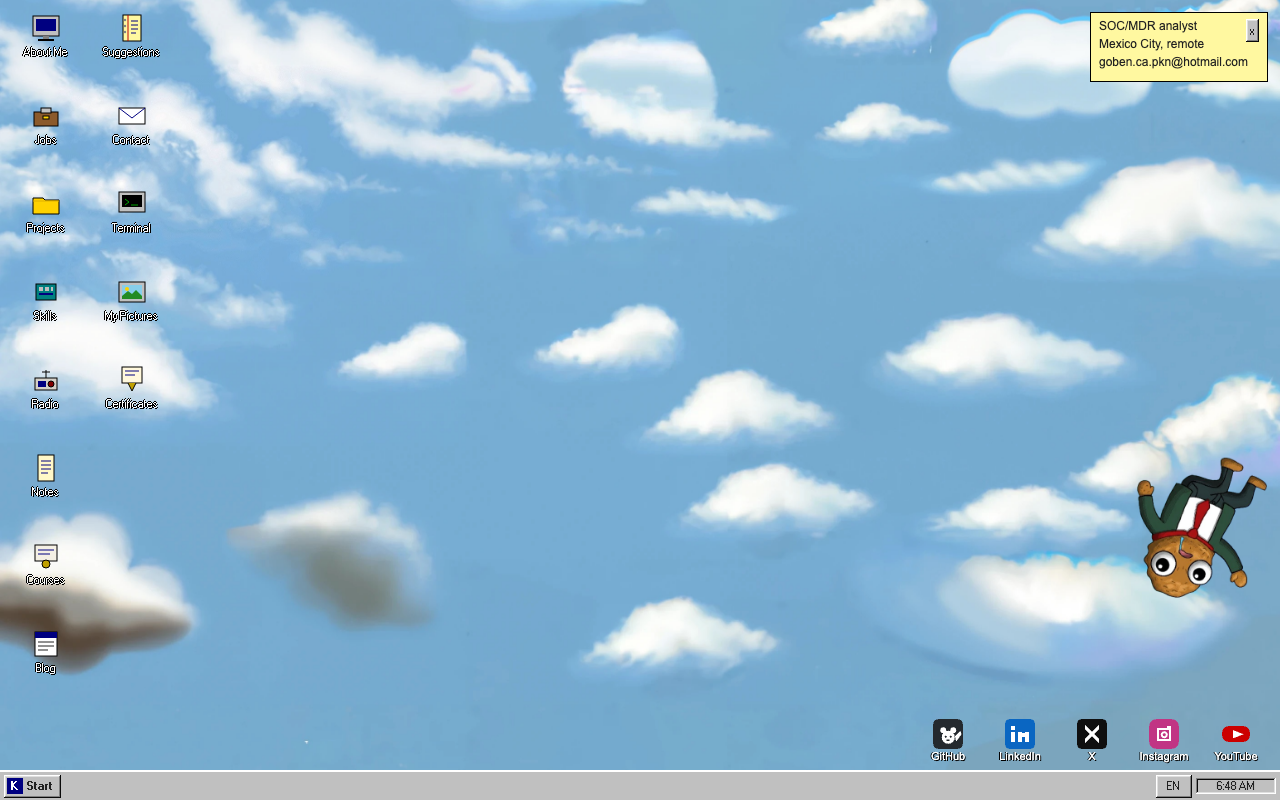
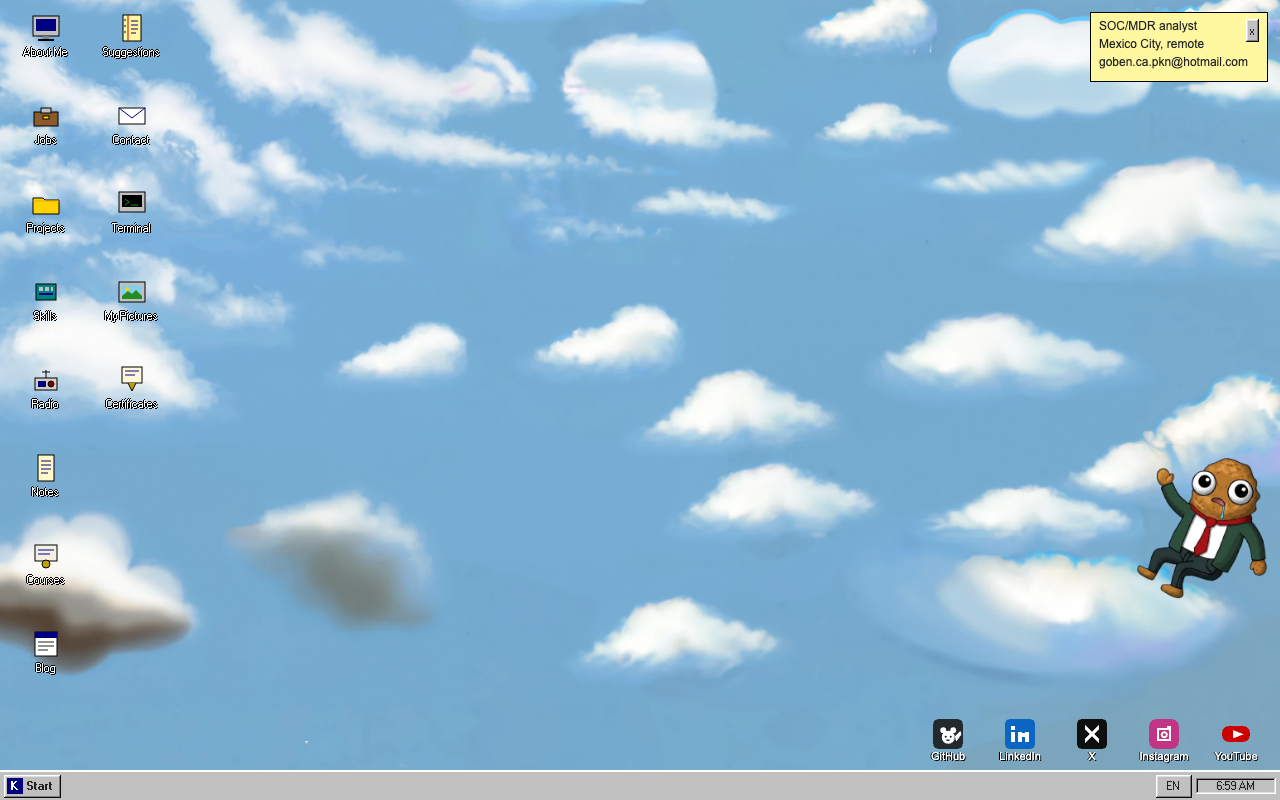
Turn the nugget to face left instead of upside down.
It stays on the far right. The head stays up.

Changed region(s): [[0.875, 0.5625, 1.0, 0.75]]

diff --git a/site/src/styles.css b/site/src/styles.css
@@ -981,7 +981,7 @@ button#lang,
 #clippy .buddy-pic {
   width: 140px;
   margin: 0 0 0 auto;
-  transform: scaleY(-1);
+  transform: scaleX(-1);
   animation: nugget-idle 2.8s ease-in-out infinite;
 }
 
@@ -1102,13 +1102,13 @@ button#lang,
 }
 
 @keyframes nugget-idle {
-  0%, 100% { transform: scaleY(-1); }
-  50% { transform: scaleY(-1) translateY(3px); }
+  0%, 100% { transform: scaleX(-1); }
+  50% { transform: scaleX(-1) translateY(3px); }
 }
 
 @keyframes nugget-talk {
-  0%, 100% { transform: scaleY(-1); }
-  50% { transform: scaleY(-1) translateY(2px); }
+  0%, 100% { transform: scaleX(-1); }
+  50% { transform: scaleX(-1) translateY(2px); }
 }
 
 @keyframes saver-bounce {
